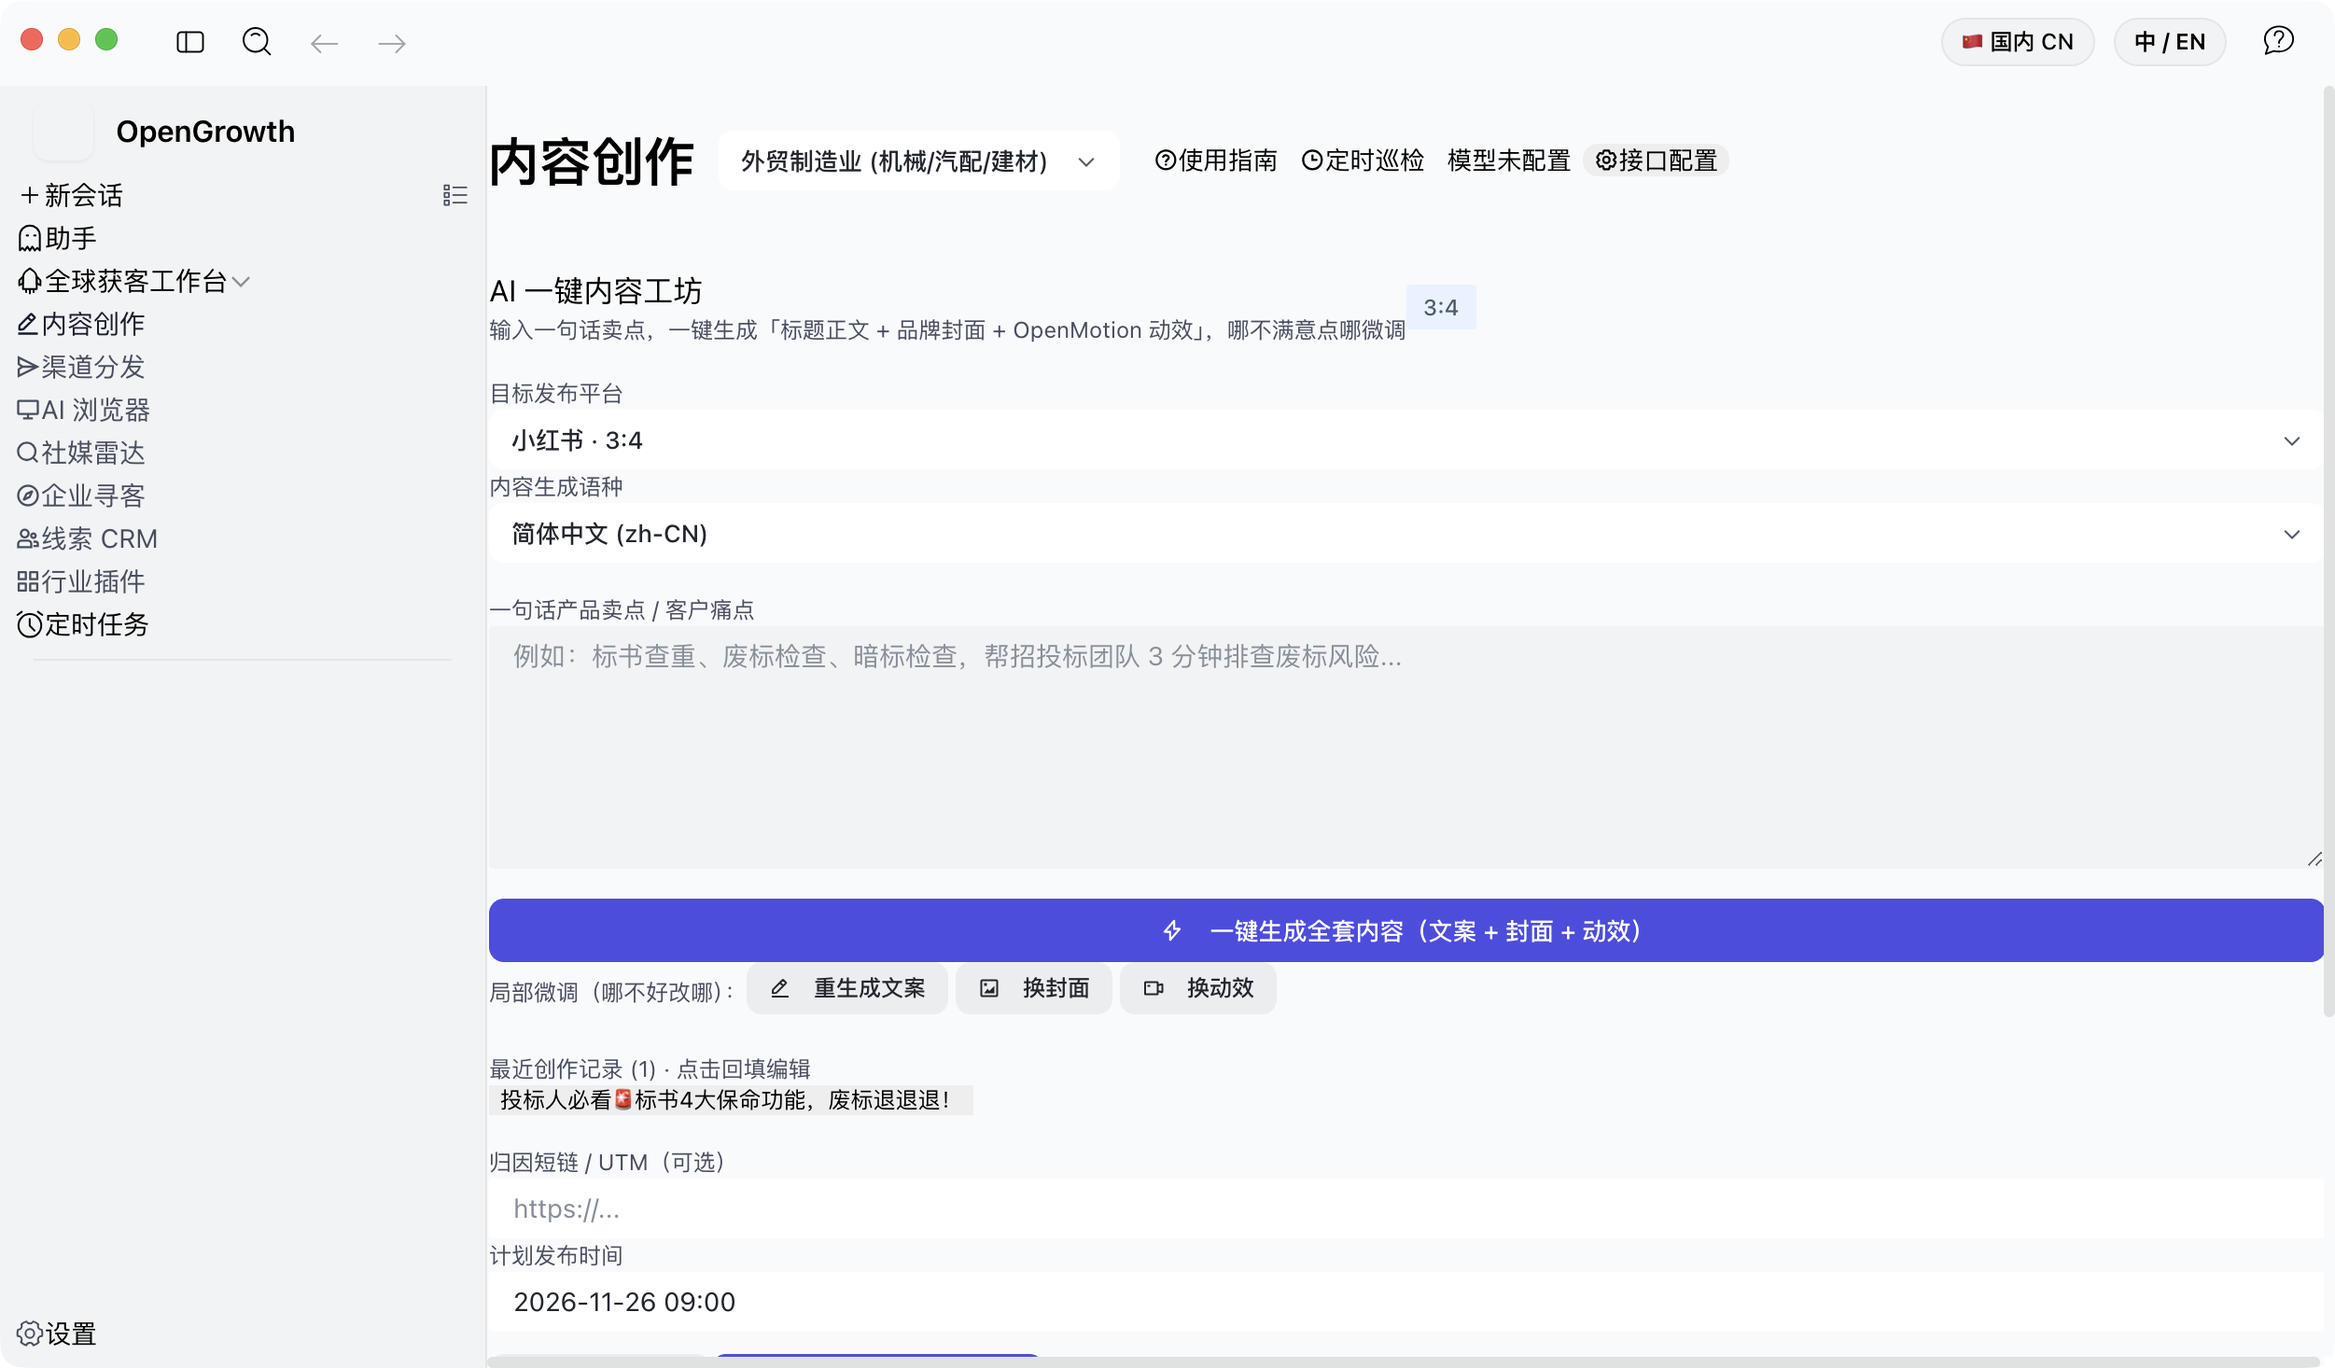
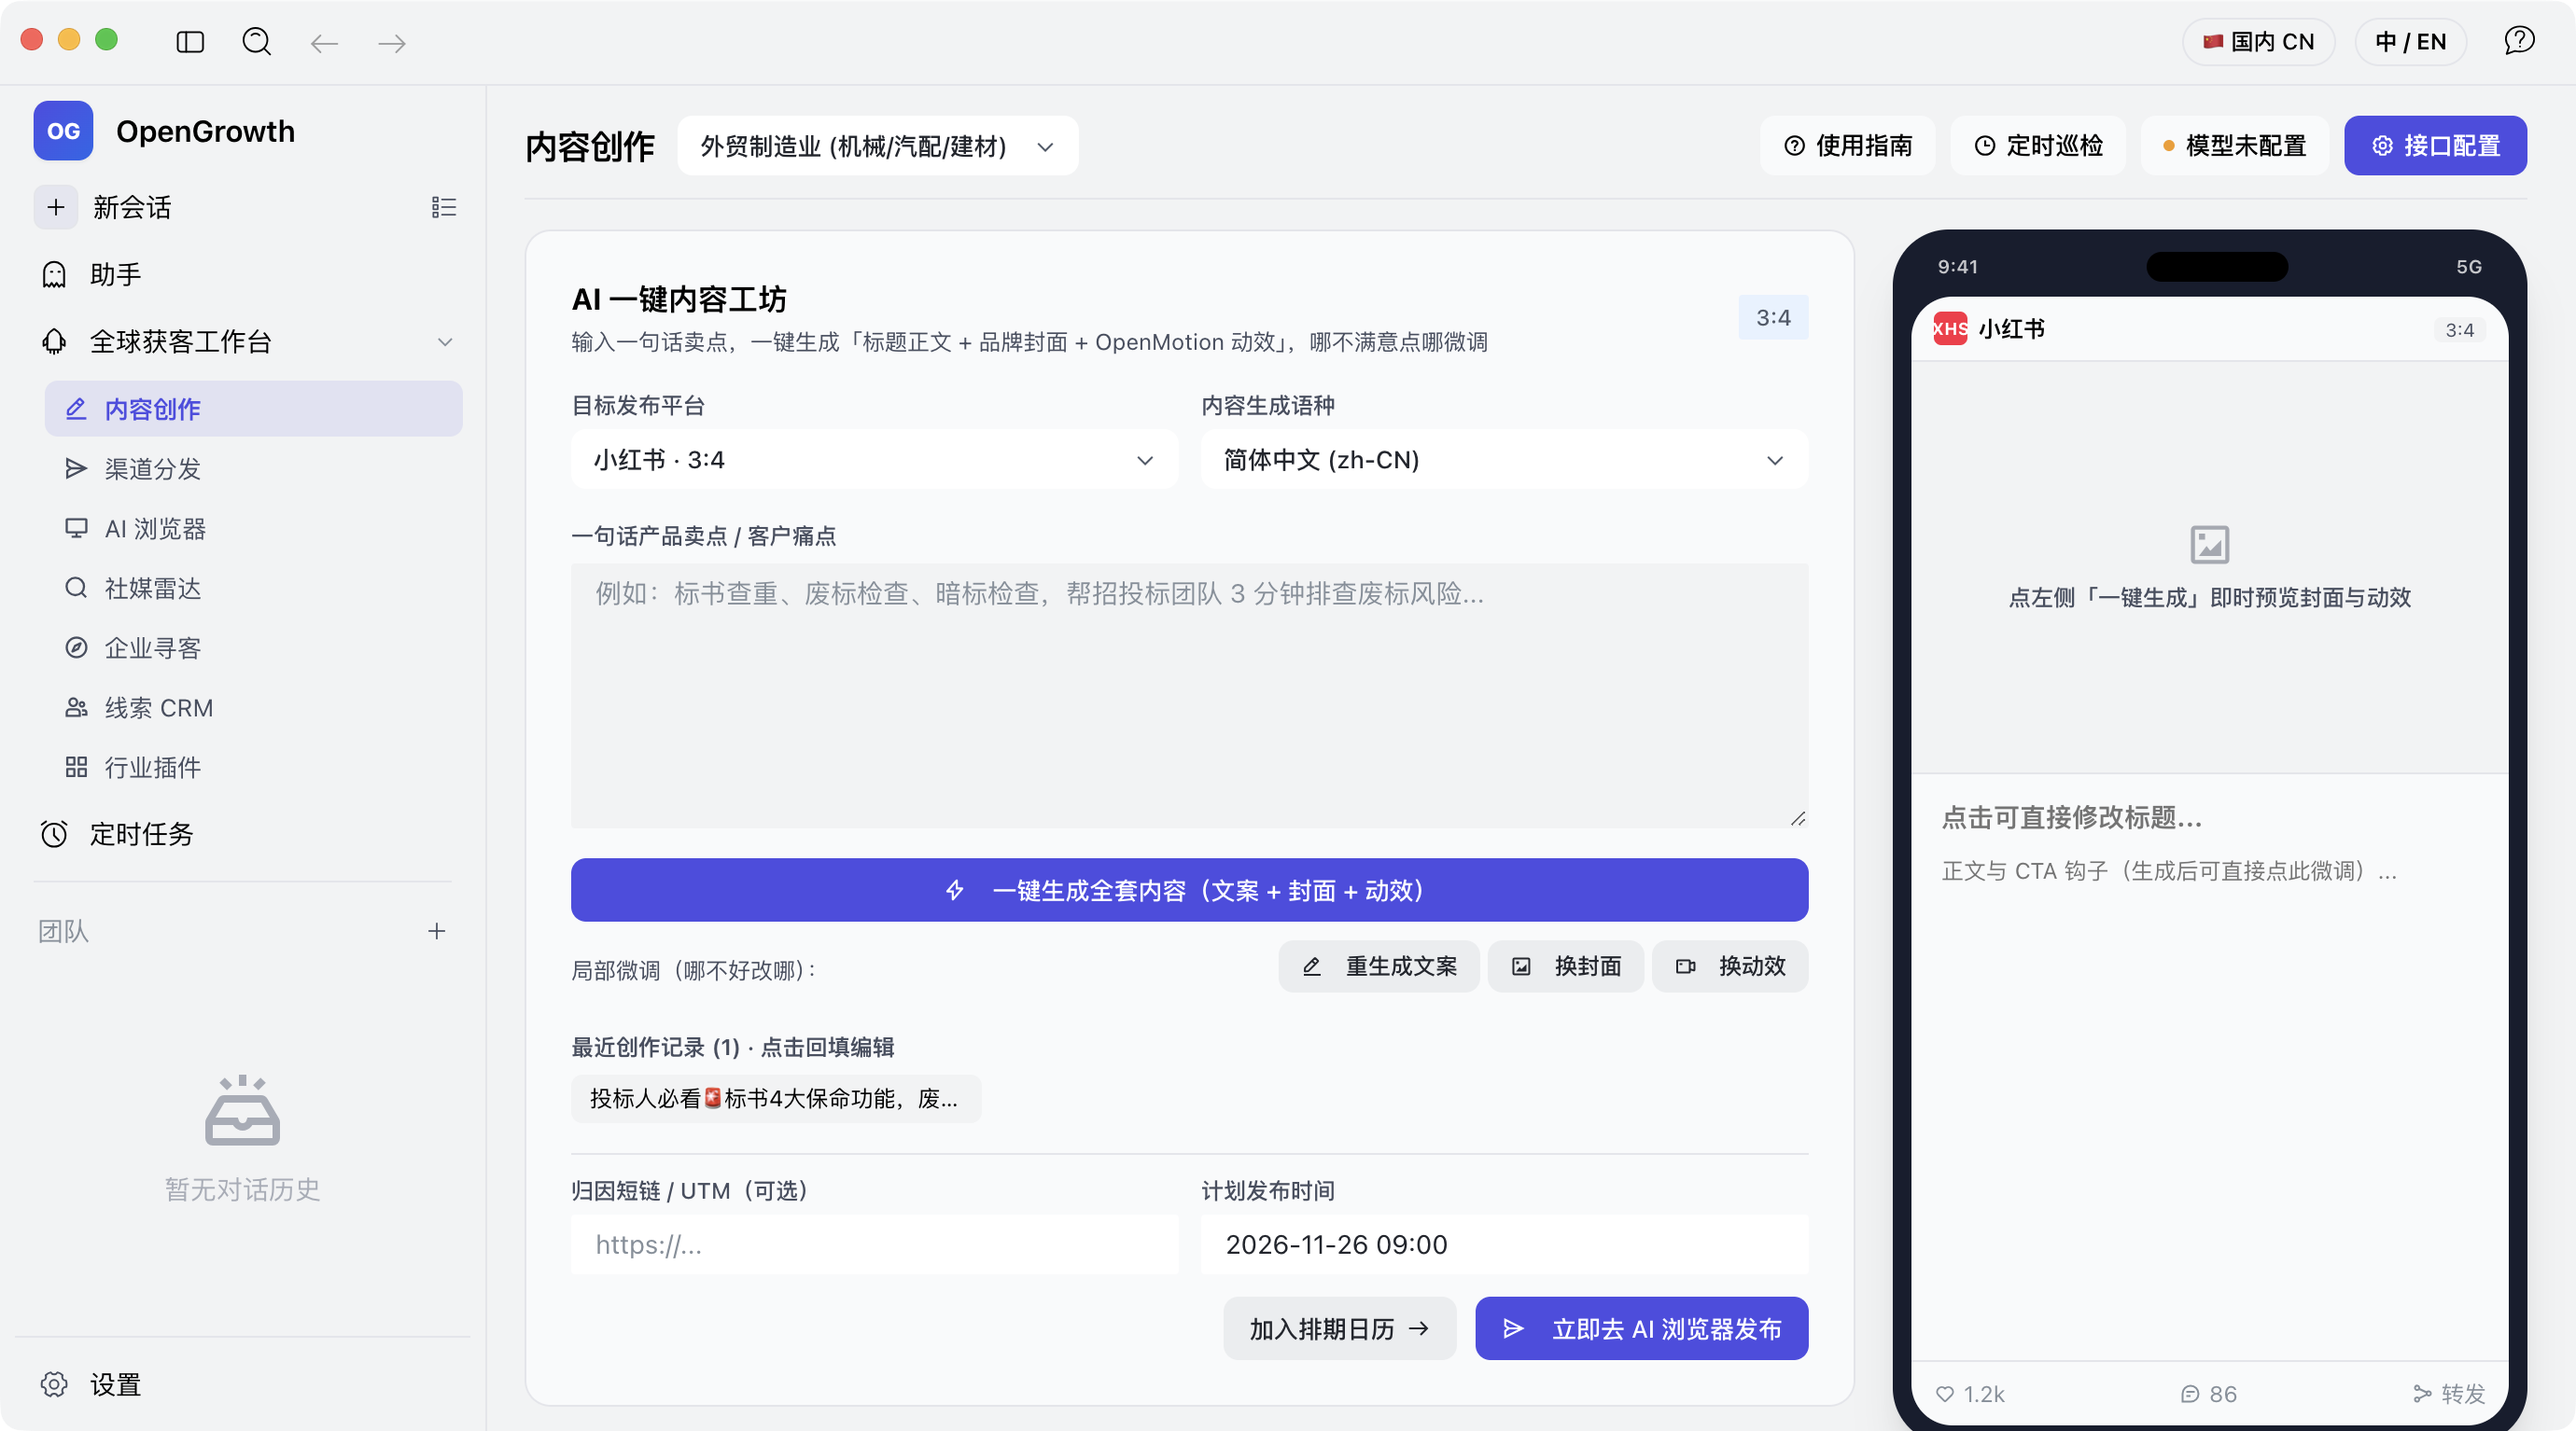
style(desktop,assets): fix sidebar OG badge, side-by-side studio layout, and update full-res screenshot

diff --git a/vendor/aionui/packages/desktop/src/renderer/pages/biaomai/components/CreateStudioTab.tsx b/vendor/aionui/packages/desktop/src/renderer/pages/biaomai/components/CreateStudioTab.tsx
@@ -101,7 +101,7 @@ export const CreateStudioTab: React.FC<CreateStudioTabProps> = ({
   const showMotion = hasMotion && (previewTab === 'motion' || !draftImageUrl);
 
   return (
-    <div className='flex-1 flex flex-col lg:flex-row gap-20px items-stretch w-full min-h-[calc(100vh-136px)]'>
+    <div className='flex-1 flex flex-col md:flex-row gap-20px items-stretch w-full min-h-[calc(100vh-136px)]'>
       {/* Left: Ultra-Simple 1-Click Composer */}
       <div className='flex-1 min-w-0 w-full p-24px rd-14px bg-1 border border-solid border-[var(--color-border-2)] flex flex-col justify-between gap-16px'>
         <div className='flex flex-col gap-16px flex-1'>
@@ -248,7 +248,7 @@ export const CreateStudioTab: React.FC<CreateStudioTabProps> = ({
       </div>
 
       {/* Right: Full-Height Phone Preview with Inline Editing & Cover/Motion Switch */}
-      <div className='w-full lg:w-360px shrink-0 flex'>
+      <div className='w-full md:w-340px shrink-0 flex'>
         <div className='w-full h-full p-10px rd-30px bg-[#0F172A] shadow-xl border-2 border-solid border-[#334155] flex flex-col'>
           <div className='flex items-center justify-between px-14px pb-8px pt-2px text-white/75 text-10px font-600'>
             <span>9:41</span>

diff --git a/vendor/aionui/packages/desktop/src/renderer/components/layout/Layout.tsx b/vendor/aionui/packages/desktop/src/renderer/components/layout/Layout.tsx
@@ -401,12 +401,12 @@ const Layout: React.FC<{
                 )}
               >
                 <div
-                  className={classNames('shrink-0 size-32px relative rd-8px overflow-hidden shadow-sm', {
-                    '!size-24px !rd-6px': collapsed,
+                  className={classNames('shrink-0 size-32px relative rd-8px overflow-hidden shadow-sm flex items-center justify-center bg-gradient-to-br from-indigo-600 to-blue-600 text-white font-800 text-12px tracking-tight select-none', {
+                    '!size-24px !rd-6px !text-10px': collapsed,
                   })}
                   onClick={onClick}
                 >
-                  <img src={biaoMaiBrandLogo} alt='OpenGrowth' className='size-full object-cover block' />
+                  OG
                 </div>
                 {isSettingsRoute ? (
                   <Tooltip content={t('common.back', { defaultValue: 'Back to Chat' })} position='bottom'>
